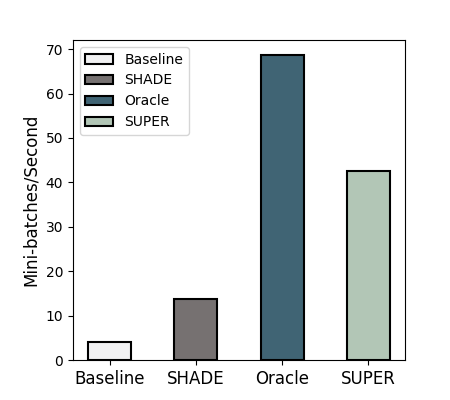
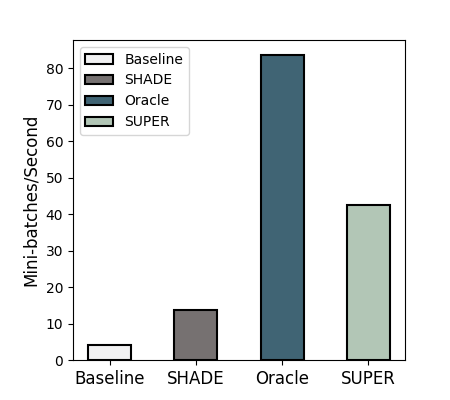
updated process reports

diff --git a/figures/process_reports.py b/figures/process_reports.py
@@ -7,55 +7,142 @@ def convert_csv_to_dict(csv_file):
     df = pd.read_csv(csv_file)
     return df.to_dict(orient='list')
 
-def convert_all_csv_to_dict(folder_path):
+def process_reprot(folder_path, is_language):
     metrics = OrderedDict({
          "num_jobs": 0,
+        #  "elapsed_time(s)": 0,
          "total_bathces":0,
          "total_samples":0,
          "total_time(s)": 0,
-         "data_time(s)": 0,
          "compute_time(s)": 0,
+         "dataloading_time(s)": 0,
+         "fetch_time(s)": 0,
          "transform_time(s)": 0,
+         "dataloading_delay_time(s)": 0,
+         "io_delay(s)": 0,
+         "transform_delay(s)": 0,
          "cache_hits": 0,
+         "throughput(batches_per_second)": 0,
+         "compute%": 0,
+         "io%": 0,
+         "transform%": 0,
+         "cache_hit%": 0,
          })
 
     csv_data = {}
     search_pattern = os.path.join(folder_path, '**', '*.csv')
     for csv_file in glob.iglob(search_pattern, recursive=True):
         file_name = os.path.relpath(csv_file, folder_path)
+        if 'shade'in folder_path:
+            pass
         if 'metrics.csv' in file_name:
             csv_data = convert_csv_to_dict(csv_file)
             metrics["num_jobs"] +=1
-            metrics["total_bathces"] += len(csv_data["batch_idx"])
-            metrics["total_samples"] += sum(csv_data["batch_size"])
+            # metrics["elapsed_time(s)"] += csv_data["elapsed_time"][-1]
+            if 'batch_idx' in csv_data:
+                metrics["total_bathces"] += len(csv_data["batch_idx"])
+            else:
+                metrics["total_bathces"] += len(csv_data["iter"])
+            
+            if 'batch_size' in csv_data:
+                metrics["total_samples"] += sum(csv_data["batch_size"])
+            else:
+                metrics["total_samples"] += sum(csv_data["samples"])
             metrics["total_time(s)"] += sum(csv_data["batch_time"])
-            # metrics["total_time(s)"] += csv_data["elapsed_time(s)"][len(csv_data["elapsed_time(s)"])-1]
-            metrics["data_time(s)"] += sum(csv_data["data_time"])
             metrics["compute_time(s)"] += sum(csv_data["compute_time"])
-            # metrics["transform_time(s)"] += sum(csv_data["transform_time"])
+            if 'shade'in folder_path:
+                metrics["dataloading_delay_time(s)"] = metrics["total_time(s)"]-metrics["compute_time(s)"]
+            else:
+                metrics["dataloading_delay_time(s)"] += sum(csv_data["data_time"])
+            metrics["fetch_time(s)"] += sum(csv_data["fetch_time"])
+            metrics["transform_time(s)"] += sum(csv_data["transform_time"])
             metrics["cache_hits"] += sum(csv_data["cache_hits"])
-
-            data_times = csv_data["data_time"]
-            transform_times = csv_data["transform_time"]
-
-            for idx, value in enumerate(data_times):
-                if value >=1:
-                    metrics["transform_time(s)"] += transform_times[idx]
-                pass
-
-    metrics["data_time(s)"] = metrics["data_time(s)"] - metrics["transform_time(s)"]
-
-
-    for key in ['total_time(s)',"data_time(s)", "compute_time(s)","transform_time(s)" ]:
+    
+    metrics["dataloading_time(s)"] = metrics["fetch_time(s)"] + metrics["transform_time(s)"]
+    
+    for key in ['total_time(s)',"dataloading_delay_time(s)", "fetch_time(s)","dataloading_time(s)","compute_time(s)","transform_time(s)" ]:
         metrics[key] = metrics[key] / metrics['num_jobs']
+    # for key in ['total_time(s)',"data_time(s)", "compute_time(s)","transform_time(s)" ]:
+    #     metrics[key] = metrics[key] / metrics['num_jobs']
     
     metrics["throughput(batches_per_second)"] = metrics["total_bathces"]/metrics["total_time(s)"]
-    metrics["cache_hit%"] = metrics["cache_hits"]/metrics["total_samples"]
+    if is_language:
+        metrics["cache_hit%"] = metrics["cache_hits"]/metrics["total_bathces"]
+    else:
+        metrics["cache_hit%"] = metrics["cache_hits"]/metrics["total_samples"]
+
+    percntage_of_data_loading_time_spent_on_io = metrics["fetch_time(s)"]/metrics["dataloading_time(s)"]
+    percntage_of_data_loading_time_spent_on_trans = metrics["transform_time(s)"]/metrics["dataloading_time(s)"]
+
+    metrics["io_delay(s)"] = metrics["dataloading_delay_time(s)"]*percntage_of_data_loading_time_spent_on_io
+    metrics["transform_delay(s)"] = metrics["dataloading_delay_time(s)"]*percntage_of_data_loading_time_spent_on_trans
     metrics["compute%"] = metrics["compute_time(s)"]/metrics["total_time(s)"]
-    metrics["data%"] = metrics["data_time(s)"]/metrics["total_time(s)"]
-    metrics["transform%"] = metrics["transform_time(s)"]/metrics["total_time(s)"]
+    metrics["io%"] =  metrics["io_delay(s)"]/metrics["total_time(s)"]
+    metrics["transform%"] = metrics["transform_delay(s)"]/metrics["total_time(s)"]
 
     return metrics
+
+
+# def process_reprot(folder_path):
+#     metrics = OrderedDict({
+#          "num_jobs": 0,
+#          "elapsed_time(s)": 0,
+#          "total_bathces":0,
+#          "total_samples":0,
+#          "total_time(s)": 0,
+#          "data_time(s)": 0,
+#          "compute_time(s)": 0,
+#          "transform_time(s)": 0,
+#          "cache_hits": 0,
+#          })
+
+#     csv_data = {}
+#     search_pattern = os.path.join(folder_path, '**', '*.csv')
+#     for csv_file in glob.iglob(search_pattern, recursive=True):
+#         file_name = os.path.relpath(csv_file, folder_path)
+#         if 'metrics.csv' in file_name:
+#             csv_data = convert_csv_to_dict(csv_file)
+#             metrics["num_jobs"] +=1
+#             metrics["elapsed_time(s)"] += csv_data["elapsed_time"][-1]
+#             if 'batch_idx' in csv_data:
+#                 metrics["total_bathces"] += len(csv_data["batch_idx"])
+#             else:
+#                 metrics["total_bathces"] += len(csv_data["iter"])
+            
+#             if 'batch_size' in csv_data:
+#                 metrics["total_samples"] += sum(csv_data["batch_size"])
+#             else:
+#                 metrics["total_samples"] += sum(csv_data["samples"])
+#             metrics["total_time(s)"] += sum(csv_data["batch_time"])
+#             # metrics["total_time(s)"] += csv_data["elapsed_time(s)"][len(csv_data["elapsed_time(s)"])-1]
+#             metrics["data_time(s)"] += sum(csv_data["data_time"])
+#             metrics["compute_time(s)"] += sum(csv_data["compute_time"])
+#             # metrics["transform_time(s)"] += sum(csv_data["transform_time"])
+#             metrics["cache_hits"] += sum(csv_data["cache_hits"])
+
+#             data_times = csv_data["data_time"]
+#             transform_times = csv_data["transform_time"]
+
+#             for idx, value in enumerate(data_times):
+#                 if value >=1:
+#                     metrics["transform_time(s)"] += transform_times[idx]
+#                 pass
+
+#     metrics["data_time(s)"] = abs(metrics["data_time(s)"] - metrics["transform_time(s)"])
+
+
+#     for key in ['total_time(s)',"data_time(s)", "compute_time(s)","transform_time(s)" ]:
+#         metrics[key] = metrics[key] / metrics['num_jobs']
+    
+#     metrics["throughput(batches_per_second)"] = metrics["total_bathces"]/metrics["total_time(s)"]
+#     metrics["cache_hit%"] = metrics["cache_hits"]/metrics["total_samples"]
+#     metrics["compute%"] = metrics["compute_time(s)"]/metrics["total_time(s)"]
+#     metrics["data%"] = metrics["data_time(s)"]/metrics["total_time(s)"]
+#     metrics["transform%"] = metrics["transform_time(s)"]/metrics["total_time(s)"]
+
+#     return metrics
+
+
 
 def save_dict_to_csv(data_dict, output_file):
     with open(output_file, 'w', newline='') as csvfile:
@@ -64,13 +151,21 @@ def save_dict_to_csv(data_dict, output_file):
         writer.writerow(data_dict)
 
 
+
 if __name__ == "__main__":
     #folder_path = "C:\\Users\\pw\\Desktop\\logs\\cifar10\\resnet18"
     folder_path = "C:\\Users\\pw\\Desktop\\logs\\imagenet1k\\resnet50"
+    #folder_path = "C:\\Users\\pw\\Desktop\\logs\\openwebtext\\pythia-14m"
+    #folder_path = "C:\\Users\\pw\\Desktop\\logs\\openwebtext\\pythia-70m"
+    #folder_path = "C:\\Users\\pw\\Desktop\\logs\\openwebtext\\pythia-160m"
 
     subfolders = glob.glob(os.path.join(folder_path, '*'))
     for subfolder in subfolders:
-        csv_data = convert_all_csv_to_dict(subfolder)
+        if 'openwebtext' in folder_path:
+            csv_data = process_reprot(subfolder,is_language=True)
+        else:
+            csv_data = process_reprot(subfolder,is_language=False)
+
         folder_name = os.path.basename(os.path.normpath(subfolder))
 
         output_file = os.path.join(subfolder, f'{folder_name}_summary.csv')

diff --git a/figures/time_breakdown_figure.py b/figures/time_breakdown_figure.py
@@ -1,26 +1,50 @@
 import matplotlib.pyplot as plt
 from matplotlib.ticker import FuncFormatter
 
-# # Data resnet 50
+# # Data resnet 18
 # data = {
-#     'Basline': {'IO %': 72, 'Transformation %': 14, 'GPU %': 14},
-#     'SHADE': {'IO %': 46, 'Transformation %': 23, 'GPU %': 27},
+#     'Basline': {'IO %': 96.5325224804555, 'Transformation %': 1.0398589536327, 'GPU %': 2.42467468291663},
+#     'SHADE': {'IO %': 87.1375296699801, 'Transformation %': 7.22306871099934, 'GPU %': 5.63940161902051},
 #     'Oracle': {'IO %': 24, 'Transformation %': 3, 'GPU %': 74},
 #     'SUPER': {'IO %': 38, 'Transformation %': 14, 'GPU %': 48},
 # }
 
 
-# Data resnet18
+# Data resnet 50
 data = {
-    'Basline': {'IO %': 96, 'Transformation %': 1, 'GPU %': 2},
-    'SHADE': {'IO %': 93, 'Transformation %': 1, 'GPU %': 6},
-    'Oracle': {'IO %': 66, 'Transformation %': 1, 'GPU %': 33},
-    'SUPER': {'IO %': 77, 'Transformation %': 1, 'GPU %': 22},
+    'Basline': {'IO %': 79.1254446154995, 'Transformation %': 7.1445961114448, 'GPU %': 13.728382949341},
+    'SHADE': {'IO %': 60.5862122174053, 'Transformation %': 12.7536208474465, 'GPU %': 26.6601669351481},
+    'Oracle': {'IO %': 12.9087571589205, 'Transformation %': 13.5274180063709, 'GPU %': 73.5560405113968},
+    'SUPER': {'IO %': 36.759908419515, 'Transformation %': 14.9225592790088, 'GPU %': 48.3118074995643},
 }
 
 
+# # Data resnet18
+# data = {
+#     'Basline': {'IO %': 96, 'Transformation %': 1, 'GPU %': 2},
+#     'SHADE': {'IO %': 93, 'Transformation %': 1, 'GPU %': 6},
+#     'Oracle': {'IO %': 66, 'Transformation %': 1, 'GPU %': 33},
+#     'SUPER': {'IO %': 77, 'Transformation %': 1, 'GPU %': 22},
+# }
+
+# # Data pythia-14m
+# data = {
+#     'Basline': {'IO %': 33.9185439956913, 'Transformation %': 31.9787106787411, 'GPU %': 34.1027453258919},
+# #     'SHADE': {'IO %': 93, 'Transformation %': 1, 'GPU %': 6},
+#     'Oracle': {'IO %': 0.485495741989118, 'Transformation %': 0.229738774945173, 'GPU %': 99.2847654817468},
+#     'SUPER': {'IO %': 0.545340337925344, 'Transformation %': 1.81757997119794, 'GPU %': 97.6370796923387},
+# }
+
+# # Data pythia-70m
+# data = {
+#     'Basline': {'IO %': 21.738547697084, 'Transformation %': 21.3326087949571, 'GPU %': 56.9288435074687},
+# #    'SHADE': {'IO %': 93, 'Transformation %': 1, 'GPU %': 6},
+#     'Oracle': {'IO %': 0.183879063850989, 'Transformation %': 0.53540833086722, 'GPU %': 98.9196007792605},
+#     'SUPER': {'IO %': 0.31788307853497, 'Transformation %':0.89652015639459, 'GPU %': 99.5411007793089},
+# }
+
 io_color ='#F1F1F2'  
-shade_color = '#767171'
+# shade_color = '#767171'
 transformation_color = '#406474'   
 gpu_color = '#B2C6B6'    
 
@@ -61,4 +85,4 @@ def percent_formatter(x, pos):
 # Apply the formatter to the y-axis
 plt.gca().yaxis.set_major_formatter(FuncFormatter(percent_formatter))
 
-plt.savefig('figures\eval_resnet18_cifar10\percentage_breakdown.png')
+plt.savefig('figures\eval_resnet50_cifar10\percentage_breakdown.png')

diff --git a/figures/throughput_figure.py b/figures/throughput_figure.py
@@ -1,11 +1,34 @@
 import matplotlib.pyplot as plt
+# # resnet18
+# data = {
+#     'Baseline': 4.13688431219181,
+#     'SHADE': 13.8218243663058,
+#     'Oracle': 83.6356083667513,
+#     'SUPER': 42.5324474846663,
+# }
 
+#resnet50
 data = {
-    'Baseline': 2.78696508415782,
+    'Baseline': 1.61999563618888,
     'SHADE': 3.13318390260257,
-    'Oracle': 8.6356083667513,
+    'Oracle': 8.66404492084878,
     'SUPER': 5.65832064020547,
 }
+# #pythia 14m
+# data = {
+#     'Baseline': 5.19032196005167,
+#     'Oracle': 15.0729524232023,
+#     'SUPER': 14.6204069615893,
+# }
+
+
+# #pythia 70m
+# data = {
+#     'Baseline': 6.032028159589,
+#     'Oracle': 9.87844349124468,
+#     'SUPER': 10.5352221118991,
+# }
+
 
 pytorch_color ='#F1F1F2'  
 shade_color = '#767171'
@@ -24,7 +47,7 @@ values = list(data.values())
 plt.figure(figsize=(4.5, 4))
 bar = plt.bar(
     labels,
-    values, color=[pytorch_color, shade_color,oracle_color, super_color], 
+    values, color=[pytorch_color,shade_color,oracle_color, super_color], 
     edgecolor='black',
     linewidth=1.5,
     alpha=1, width=0.5 

diff --git a/mlworklaods/image_classification/image_classifer_trainer.py b/mlworklaods/image_classification/image_classifer_trainer.py
@@ -246,7 +246,7 @@ class ImageClassificationTrainer():
                         "loss_train": self._current_train_return['loss'],
                         "accuracy_train": self._current_train_return['top1'],
                         "cpu_usge": json.dumps(monitor.resource_data["cpu_util"].summarize()),
-                        # "gpu_usge": json.dumps( monitor.resource_data["gpu_util"].summarize())   
+                        "gpu_usge": json.dumps( monitor.resource_data["gpu_util"].summarize())   
                         })
                 # total_loss_for_epoch +=self._current_train_return['loss']
 

diff --git a/mlworklaods/llm/pretrainer.py b/mlworklaods/llm/pretrainer.py
@@ -221,6 +221,7 @@ class LLMPretrainer():
                         lengths=(state["iter_num"] * self.train.micro_batch_size * model.max_seq_length),
                     )
                     metrics = {
+                        "batch_time": time.perf_counter() - end,
                         "loss": loss,
                         "iter": state["iter_num"],
                         "step": state["step_count"],
